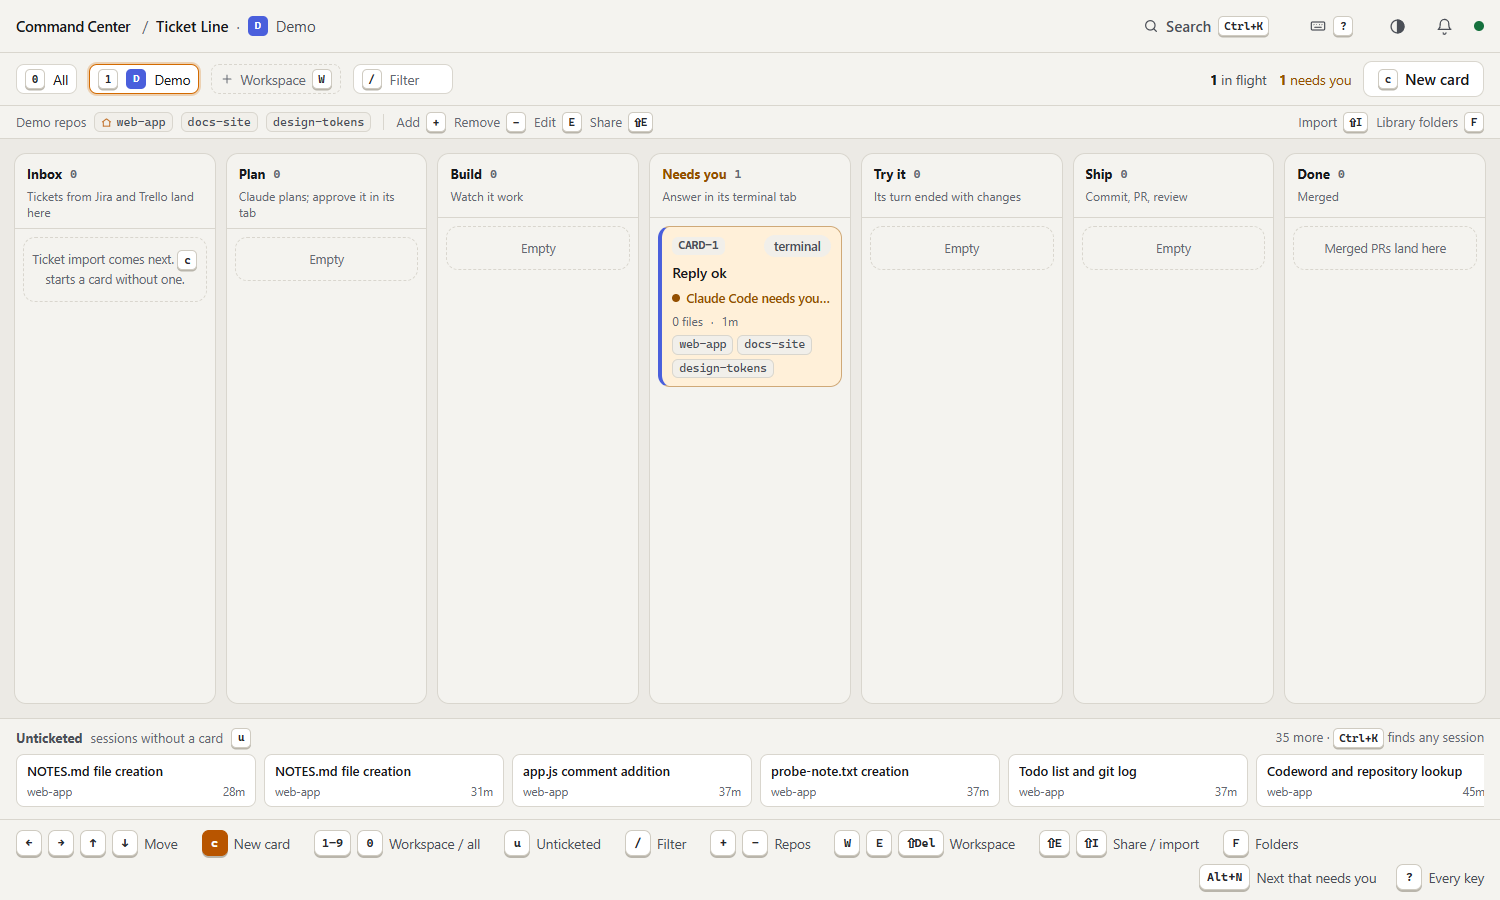
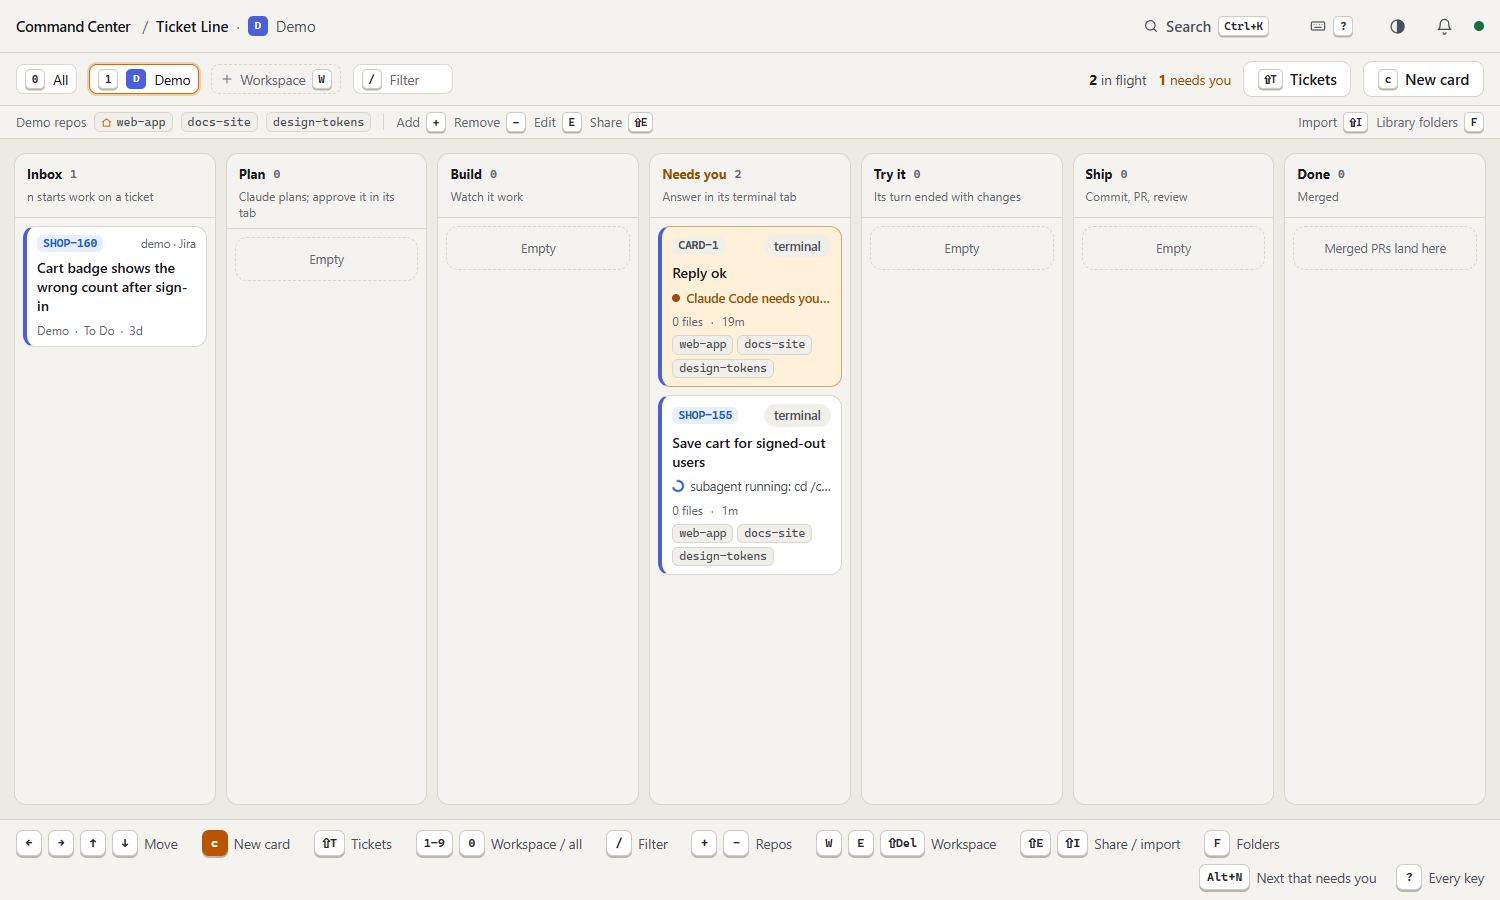
docs: connecting Jira and Trello; handoff and screenshots for the Inbox
Claude-Session: https://claude.ai/code/session_01SX7NYJPV7j8cb6eEYMjYFs

diff --git a/docs/prompts/continue-ticket-line.md b/docs/prompts/continue-ticket-line.md
@@ -4,19 +4,21 @@ Paste this into a new Claude Code session opened in `D:\repos\cc-control`.
 
 ---
 
-Read `docs/prompts/continue.md` first. It explains what cc-control is, where things are, and how to test without touching the owner's running app. Then read `docs/PLAN.md` §26 to §30.
+Read `docs/prompts/continue.md` first. It explains what cc-control is, where things are, and how to test without touching the owner's running app. Then read `docs/PLAN.md` §26 to §31.
 
 ## The job
 The owner chose a direction: the **Ticket Line** (PLAN §27). The spec is the clickable mock at `docs/futures/path-line.html`. Open it in a browser and drive it with the keys before designing anything. Work becomes cards on a board: Inbox → Plan → Build → Needs you → Try it → Ship → Done. Each card is a ticket (Jira or Trello) or a card with no ticket. A new-card screen builds the card's context, and the card follows a Claude Code session running in a terminal tab.
 
 The owner likes the mock a lot. Keep its look, its words and its keys, including the legend bar and the `?` overlay, unless something can't be built as drawn. If so, say why.
 
-## Where it stands: milestones 1 to 3 are done (PLAN §28–§30)
+## Where it stands: milestones 1 to 4 are done (PLAN §28–§31)
 - **1 (§28):** a card saves its context, makes its branch and starts `claude` in a Windows Terminal tab. The hook, loaded with `claude --settings`, fetches the packet and links the session. Read §28 for the Claude Code facts it established: the `--add-dir` / `--` gotcha, trust prompts and inherited session markers will bite again.
 - **2 (§29):** cards follow their session through async hooks (Plan ready, Needs you, Try it, steps, files changed).
 - **3 (§30):** the line is the home page; Home is gone. Workspace keys (`W` `E` `+` `−` `F` `Shift+E` `Shift+I` `Shift+Delete`) work on the line and ask which workspace when All is showing. (An Unticketed row of sessions without a card was built, then removed at the owner's request: not every session belongs on the line; `Ctrl+K` finds them.) `Ctrl+Enter` opens a card's session full screen. The new-card screen chooses the model (`m`) and can keep a card's repo for the workspace (`w`).
 
-**Next: Jira/Trello import, against mock tickets** (the owner has no Jira credentials yet). The mock's Inbox, `n` on a ticket, the Tickets tab in panel 1 and the ticket layer (description, acceptance criteria, comments / attachments / linked tickets switched off by default) are the spec. Then carry on from **Then, in order** below.
+- **4 (§31):** tickets from Jira and Trello (read-only, env-var tokens on the server) and a demo set in the real shape. The Inbox, `n` on a ticket, Tickets / Repos in panel 1, related tickets, the ticket layer, and `Shift+T` for sources and the project → workspace mapping. The Jira and Trello clients are tested against the APIs' JSON but **not yet against a live site**: when the owner sends the site URL, email and API token, try it and adjust `fromJira` / `splitAcceptance` as needed.
+
+**Next: adding context later** (the mock's `c` in a card's drawer and "Added since it started" on its Context tab; extras wait on the card and a UserPromptSubmit hook, in the same `--settings` file, adds them to the next message typed in the tab). Then carry on from **Then, in order** below.
 
 **Open questions for the owner** (asked at the end of milestone 3; check the reply before building on them): whether the drag-and-drop repo library strip should come back on the line, and whether the in-app new-session dialog (`Alt+Shift+N`) is still wanted.
 
@@ -47,7 +49,7 @@ This first milestone proves the mechanism end to end. Leave the board polish, Ji
    - The Context tab shows the start-up log and what Claude was given.
    - Add a key and a `?` row for every action.
 
-**Then, in order:** ~~the board and drawer over the existing session list~~ (done, §29–§30) → Jira/Trello import (read-only, tokens kept on the server) with a ticket-to-workspace mapping → adding context later (a UserPromptSubmit hook sends queued extras with the next message) → run recipes (Try it) → Ship (commit, `gh pr create`, Slack post). Add a PLAN section for each piece, in the same commit.
+**Then, in order:** ~~the board and drawer over the existing session list~~ (done, §29–§30) → ~~Jira/Trello import~~ (done against demo tickets, §31) (read-only, tokens kept on the server) with a ticket-to-workspace mapping → adding context later (a UserPromptSubmit hook sends queued extras with the next message) → run recipes (Try it) → Ship (commit, `gh pr create`, Slack post). Add a PLAN section for each piece, in the same commit.
 
 ## The owner's answers (2026-09-29)
 - **Hooks:** per launch with `claude --settings`. Nothing goes into `~/.claude/settings.json`. The UserPromptSubmit hook for adding context later goes in the same file (`writeHookSettings` in `server/cards.ts`).

diff --git a/README.md b/README.md
@@ -8,6 +8,7 @@
 
 Running several Claude Code sessions across several repos means a lot of terminal-tab hunting: which one finished, which one is waiting on a permission prompt, which repo it was in, and typing the same "run the tests and summarise failures" prompt for the tenth time. Command Center puts all of it on one screen and makes the common moves single keystrokes.
 
+- **Tickets in the Inbox.** Jira and Trello tickets (read-only; tokens stay on the server) land in the Inbox, each project mapped to a workspace. `n` on one opens the new-card screen with its description and acceptance criteria as the card's context, and the card is named after the ticket. Demo tickets let you try it before connecting a site.
 - **The Ticket Line.** `c` makes a card: pick repos from your library, write a note, choose the model (`m`) and how it starts, and `p` previews exactly what Claude will be told. `Ctrl+Enter` makes the branch and opens `claude` in a Windows Terminal tab with that context. From then on the card follows its session: *Plan*, *Build*, amber in *Needs you* when it asks something, *Try it* when its turn ends with changes. `Ctrl+Enter` on a card opens its session full screen.
 - **Workspaces.** Group the repos you work on together ("Storefront", "Payments") and pick them with `1`–`9`. **Every card and session in a workspace can use all of its repos**, so Claude can change the API and the web app in one go. `+` adds a repo from your **repo library** (the git repos under folders you pick with `F`), `−` removes one.
 - **Know who needs you.** Cards that need you turn amber, with a chime. `Ctrl+K` finds any session, with a card or without. `Alt+N` jumps to the next one that needs you from anywhere; `Y` / `A` / `N` answers.
@@ -43,7 +44,9 @@ Open **http://localhost:7777** in Chrome or Edge. A short tour shows the four gr
 | | `?` | Every key (`B` there to rebind) |
 | | `Alt+↑` / `Alt+↓` | Previous / next session |
 | | `Alt+L` | Back to the Ticket Line from a session |
-| Ticket Line | `c` | New card: pick repos, write a note, `m` the model, `p` previews what Claude gets, `Ctrl+Enter` starts it in a terminal tab |
+| Ticket Line | `n` / `Enter` (a ticket in the Inbox) | Start work on it: the new-card screen with the ticket as context |
+| | `Shift+T` | Tickets: Jira and Trello status, demo tickets, which workspace each project goes to |
+| | `c` | New card: pick repos, write a note, `m` the model, `p` previews what Claude gets, `Ctrl+Enter` starts it in a terminal tab |
 | | `← → ↑ ↓` / `Enter` | Move between cards / open one: Overview, Context (how it started, what Claude was given), Transcript (`Tab`) |
 | | `Ctrl+Enter` | The card's session full screen (again, or `Esc`: back to the line) |
 | | `1`–`9` / `0` | One workspace / all of them |
@@ -61,6 +64,17 @@ Open **http://localhost:7777** in Chrome or Edge. A short tour shows the four gr
 | | `Ctrl+B` | Send the running step to the background |
 | | `C` (number pad) | Fold the number pad away; `Tab` still opens it |
 | | `/` (start of a message) | Suggests commands and skills as you type, like Claude Code (`/cl` → `/clear`): `↑ ↓` `Tab` `Enter` `Esc` |
+
+## Connecting Jira or Trello
+
+Set these where you start the server, then restart it. The tokens never leave the server, and nothing is written back.
+
+| Source | Variables |
+|---|---|
+| Jira Cloud | `CC_CONTROL_JIRA_SITE` (`https://you.atlassian.net`), `CC_CONTROL_JIRA_EMAIL`, `CC_CONTROL_JIRA_TOKEN` (an [API token](https://id.atlassian.com/manage-profile/security/api-tokens)), optional `CC_CONTROL_JIRA_JQL` (default: assigned to you, not done) |
+| Trello | `CC_CONTROL_TRELLO_KEY`, `CC_CONTROL_TRELLO_TOKEN`, `CC_CONTROL_TRELLO_BOARDS` (board ids, comma-separated) |
+
+Then `Shift+T` on the line shows whether each is connected, and maps each project or board to a workspace. Acceptance criteria come from an "Acceptance criteria" (or "Done when") section in a Jira description, or a checklist of that name on a Trello card.
 
 ## Sharing with your team
 
